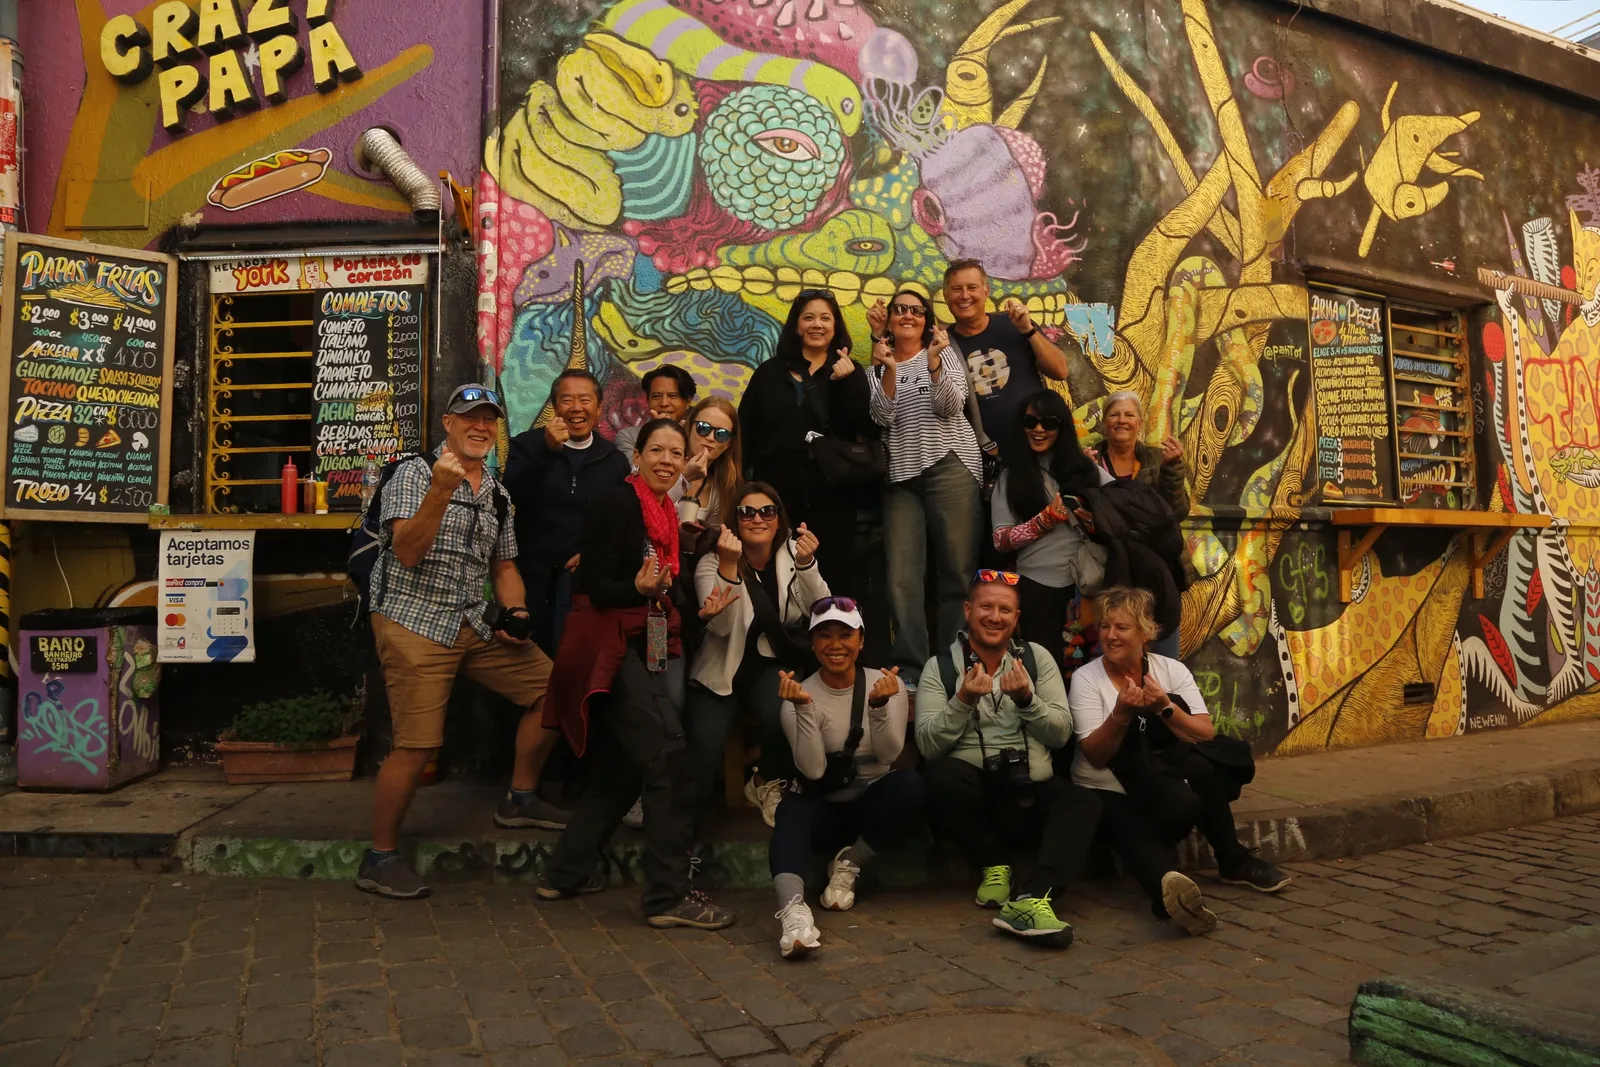
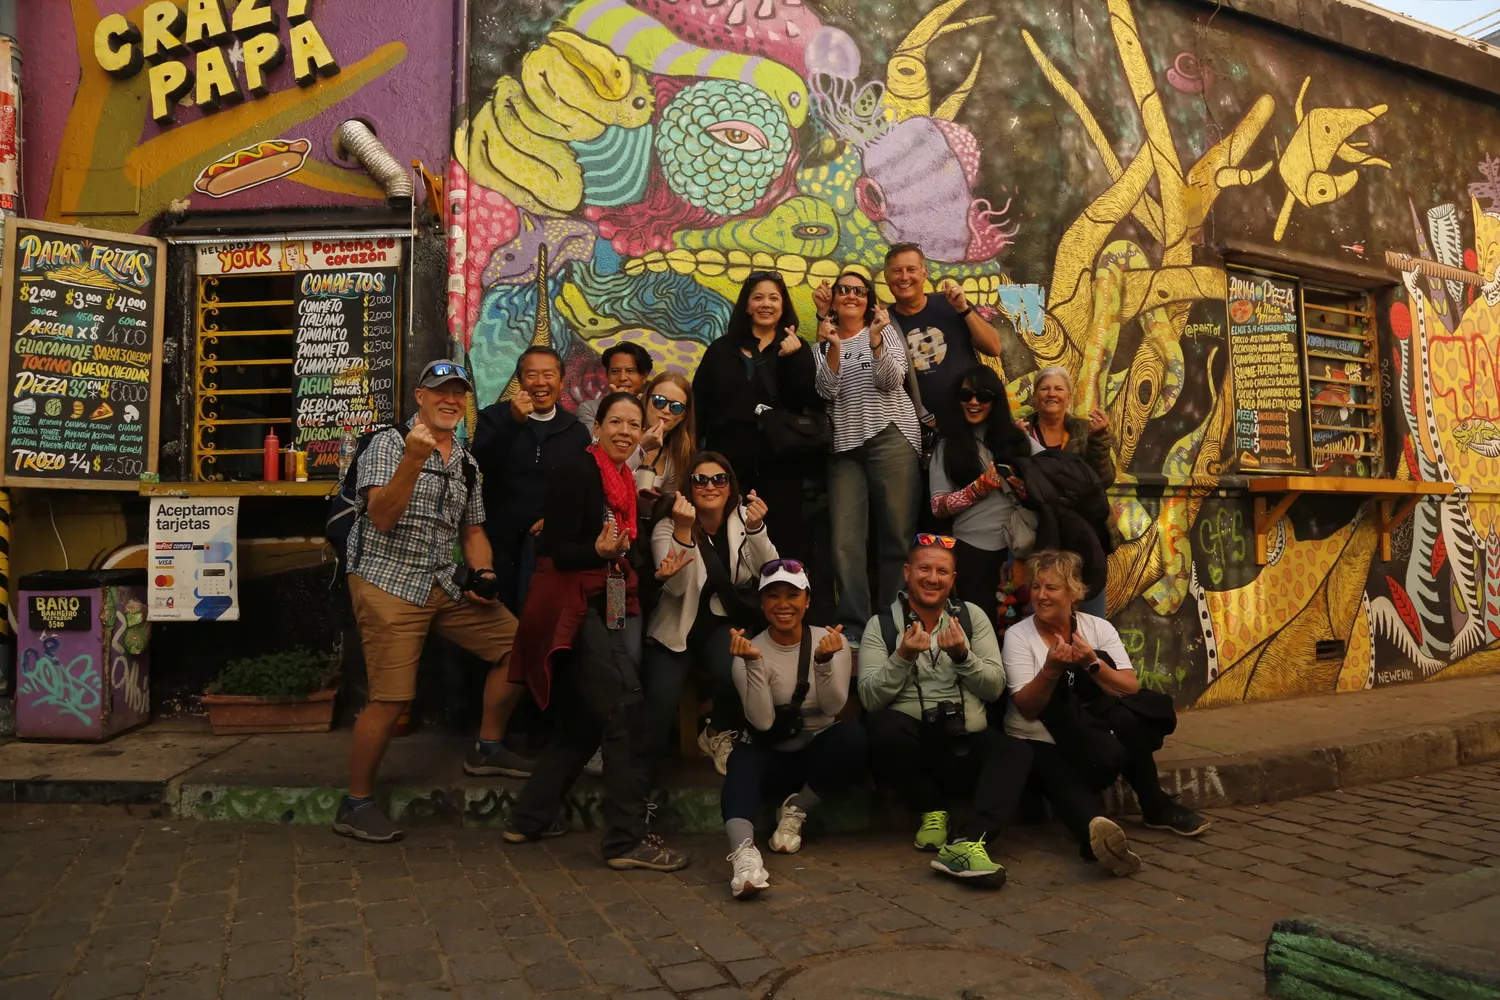
Add table support to blog editor; refresh Valparaiso post images
- admin/blog-edit.php: enable Quill 2's built-in table module with a
  button row (insert table, add/remove row/column, delete). Editor CSS
  now mirrors the live image spacing and table styling.
- css/blog.css: .blog_post_content images get block layout + vertical
  margin + rounded corners (applies to every blog post); new table
  rules give bordered cells, a shaded header row, and mobile scroll.
- img/blog/valparaiso-day-trip-from-santiago/: regenerated as 17 images
  at a uniform 1500x1000 3:2 crop (was mixed sizes/orientation);
  replaced the two portrait shots and added 5 more.

Claude-Session: https://claude.ai/code/session_01QRKxJreTT8dJvvqCn3LaN7

Changed region(s): [[0.5827, 0.403, 0.6133, 0.434], [0.552, 0.341, 0.5827, 0.372], [0.2147, 0.403, 0.2453, 0.434]]

diff --git a/css/blog.css b/css/blog.css
@@ -93,6 +93,33 @@ ul.recent_post li:last-child{
 .blog_post_content img {
 	max-width: 100%;
 	height: auto;
+	display: block;
+	margin: 2.5rem auto;
+	border-radius: 6px;
+}
+
+/* Tables built with the blog editor's table tools (admin/blog-edit.php).
+   Quill emits a bare <table><tbody><tr><td> with no thead/th, so the first
+   row is treated as the header via tr:first-child. display:block + overflow
+   lets a wide table scroll on its own instead of stretching the layout on
+   narrow screens. Editor-side styles in blog-edit.php mirror these. */
+.blog_post_content table {
+	display: block;
+	overflow-x: auto;
+	-webkit-overflow-scrolling: touch;
+	max-width: 100%;
+	border-collapse: collapse;
+	margin: 2rem 0;
+	font-size: 15px;
+}
+.blog_post_content table td {
+	border: 1px solid #ddd;
+	padding: 9px 12px;
+	vertical-align: top;
+}
+.blog_post_content table tr:first-child td {
+	background: #f5f5f5;
+	font-weight: 600;
 }
 
 .post_info {

diff --git a/admin/blog-edit.php b/admin/blog-edit.php
@@ -167,6 +167,15 @@ if ($_SERVER['REQUEST_METHOD'] === 'POST') {
     <div class="mb-3">
       <label class="form-label">Content <small class="text-muted">(click any image already in the text to swap it from the gallery)</small></label>
       <div id="content-editor" style="background: #fff;"><?= $post['content'] ?></div>
+      <div id="table-tools">
+        <button type="button" onclick="stampTable('insertTable', 3, 3)" class="btn btn-outline-secondary">Insert table</button>
+        <button type="button" onclick="stampTable('insertRowBelow')" class="btn btn-outline-secondary">+ Row</button>
+        <button type="button" onclick="stampTable('deleteRow')" class="btn btn-outline-secondary">&minus; Row</button>
+        <button type="button" onclick="stampTable('insertColumnRight')" class="btn btn-outline-secondary">+ Column</button>
+        <button type="button" onclick="stampTable('deleteColumn')" class="btn btn-outline-secondary">&minus; Column</button>
+        <button type="button" onclick="stampTable('deleteTable')" class="btn btn-outline-secondary">Delete table</button>
+        <small class="text-muted" style="align-self:center;">Row/column buttons act on the table your cursor is in. First row is styled as the header.</small>
+      </div>
       <textarea name="content" id="content-input" style="display: none;"></textarea>
     </div>
 
@@ -247,9 +256,19 @@ if ($_SERVER['REQUEST_METHOD'] === 'POST') {
 <style>
   /* Hover cue so it's discoverable that inline content images are clickable */
   /* Matches .blog_post_content img in css/blog.css, so the editor never
-     shows an image wider/differently-scaled than the live page will. */
-  #content-editor img { max-width: 100%; height: auto; cursor: pointer; transition: outline 0.15s; outline: 2px solid transparent; outline-offset: 2px; }
+     shows an image wider/differently-scaled or differently-spaced than the
+     live page will. Keep these three declarations in sync with that rule. */
+  #content-editor img { max-width: 100%; height: auto; display: block; margin: 2.5rem auto; border-radius: 6px; cursor: pointer; transition: outline 0.15s; outline: 2px solid transparent; outline-offset: 2px; }
   #content-editor img:hover { outline: 2px solid #0d6efd; }
+
+  /* Mirrors .blog_post_content table in css/blog.css so tables built with the
+     toolbar below look while editing the way they will once published. */
+  #content-editor table { border-collapse: collapse; width: 100%; margin: 1.5rem 0; }
+  #content-editor td { border: 1px solid #ccc; padding: 8px 10px; vertical-align: top; }
+  #content-editor tr:first-child td { background: #f5f5f5; font-weight: 600; }
+
+  #table-tools { margin-top: 8px; display: flex; flex-wrap: wrap; gap: 6px; }
+  #table-tools button { font-size: 12px; padding: 3px 8px; }
 </style>
 
 <script src="https://cdn.jsdelivr.net/npm/quill@2.0.3/dist/quill.js"></script>
@@ -257,6 +276,10 @@ if ($_SERVER['REQUEST_METHOD'] === 'POST') {
   var quill = new Quill('#content-editor', {
     theme: 'snow',
     modules: {
+      // Quill 2's built-in table module (bundled in the CDN quill.js above,
+      // just off by default). No toolbar entry exists for it, so the
+      // #table-tools buttons below drive it via quill.getModule('table').
+      table: true,
       toolbar: {
         container: [
           [{ header: [2, 3, false] }],
@@ -274,6 +297,20 @@ if ($_SERVER['REQUEST_METHOD'] === 'POST') {
       }
     }
   });
+
+  // Drives the built-in table module from the #table-tools buttons. Row and
+  // column operations need the cursor inside a table cell; Quill throws if it
+  // isn't, so surface that as a plain hint instead of a silent no-op.
+  function stampTable(method) {
+    var table = quill.getModule('table');
+    var args = Array.prototype.slice.call(arguments, 1);
+    try {
+      table[method].apply(table, args);
+    } catch (e) {
+      alert('Put your cursor inside a table cell first, then use that button.');
+    }
+    quill.focus();
+  }
 
   document.querySelector('form').addEventListener('submit', function () {
     document.getElementById('content-input').value = quill.root.innerHTML;
